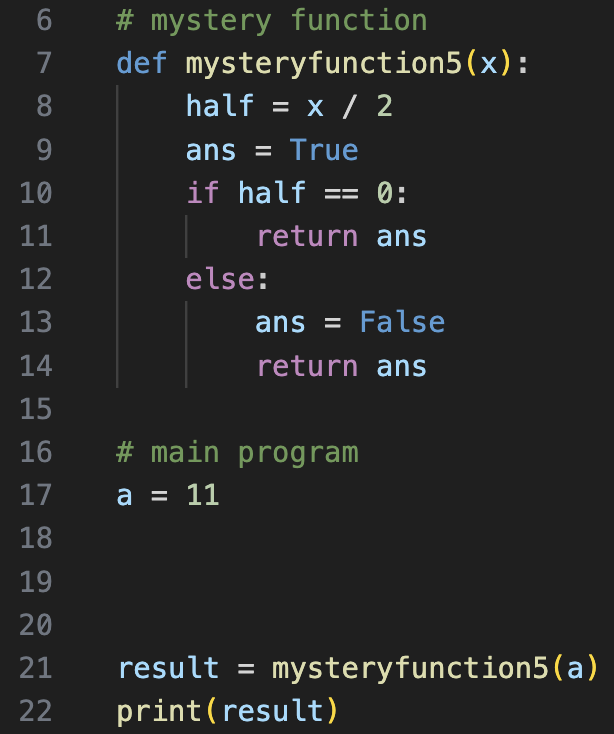
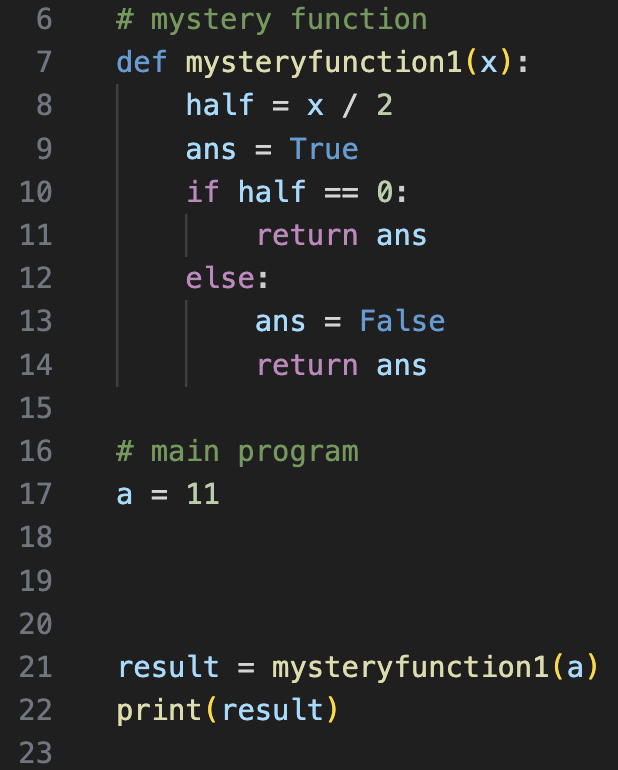
fixed untyped task 5

diff --git a/task5.py b/task5.py
@@ -5,7 +5,7 @@ from typing import List, Union, Optional
 
 # mystery function
 def mysteryfunction1(x):
-    half = x / 2
+    half = x % 2
     ans = True
     if half == 0:
         return ans
@@ -14,9 +14,12 @@ def mysteryfunction1(x):
         return ans
         
 # main program
-a = 11
+a = [0, 12.0, True, "apple", -1, False]
 
 
 
 result = mysteryfunction1(a)
 print(result)
+
+result1 = mysteryfunction1(a[3])
+print(result1)
